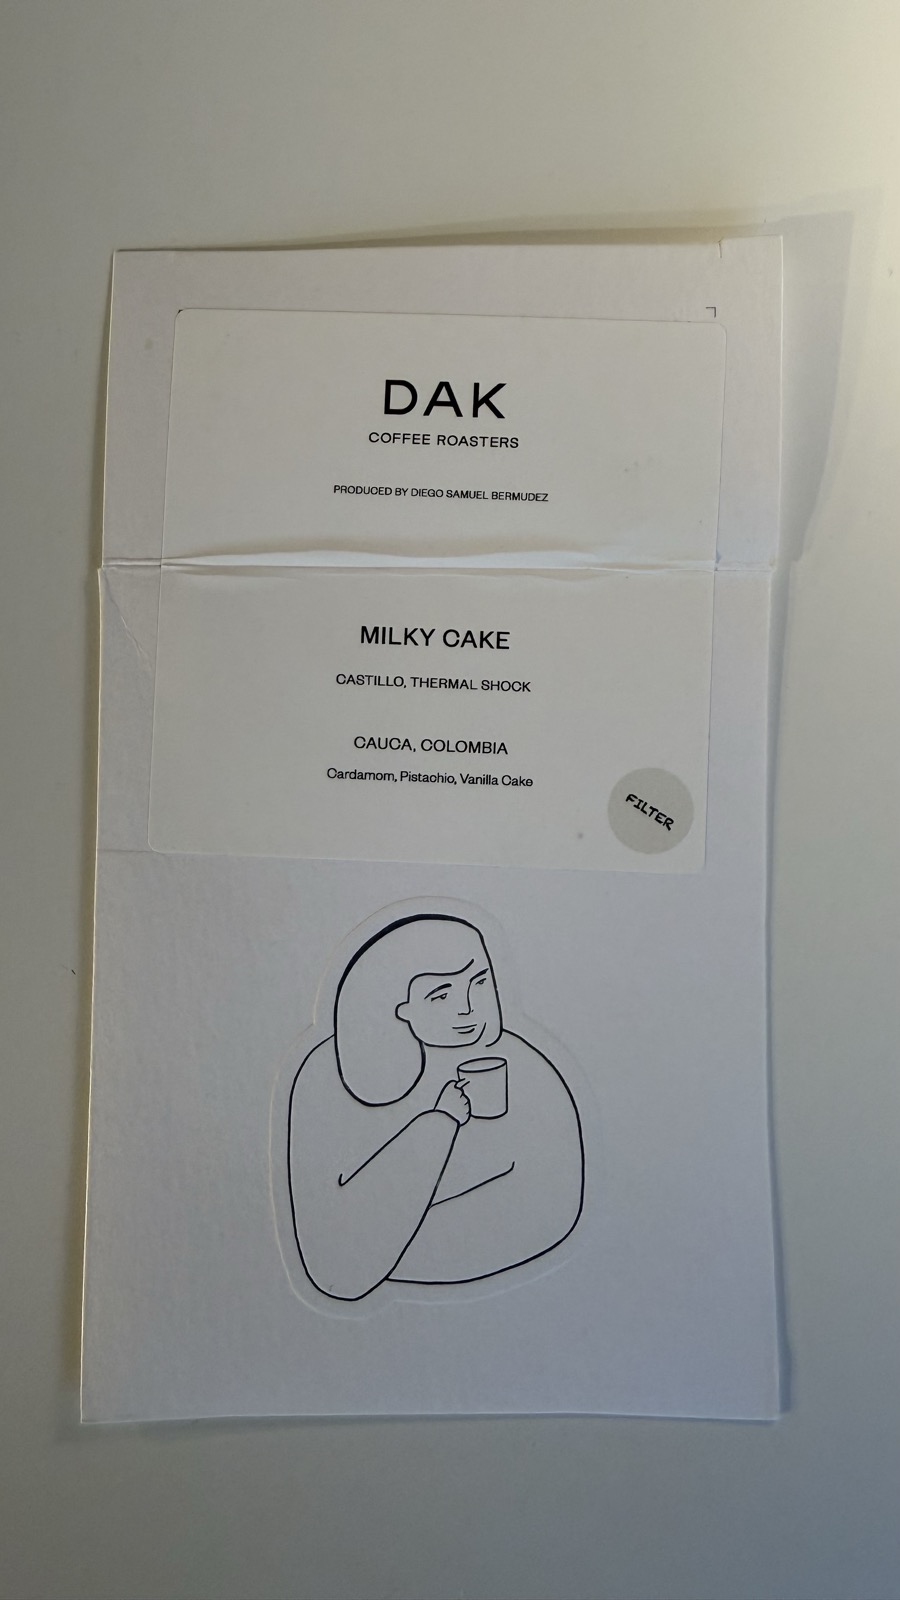
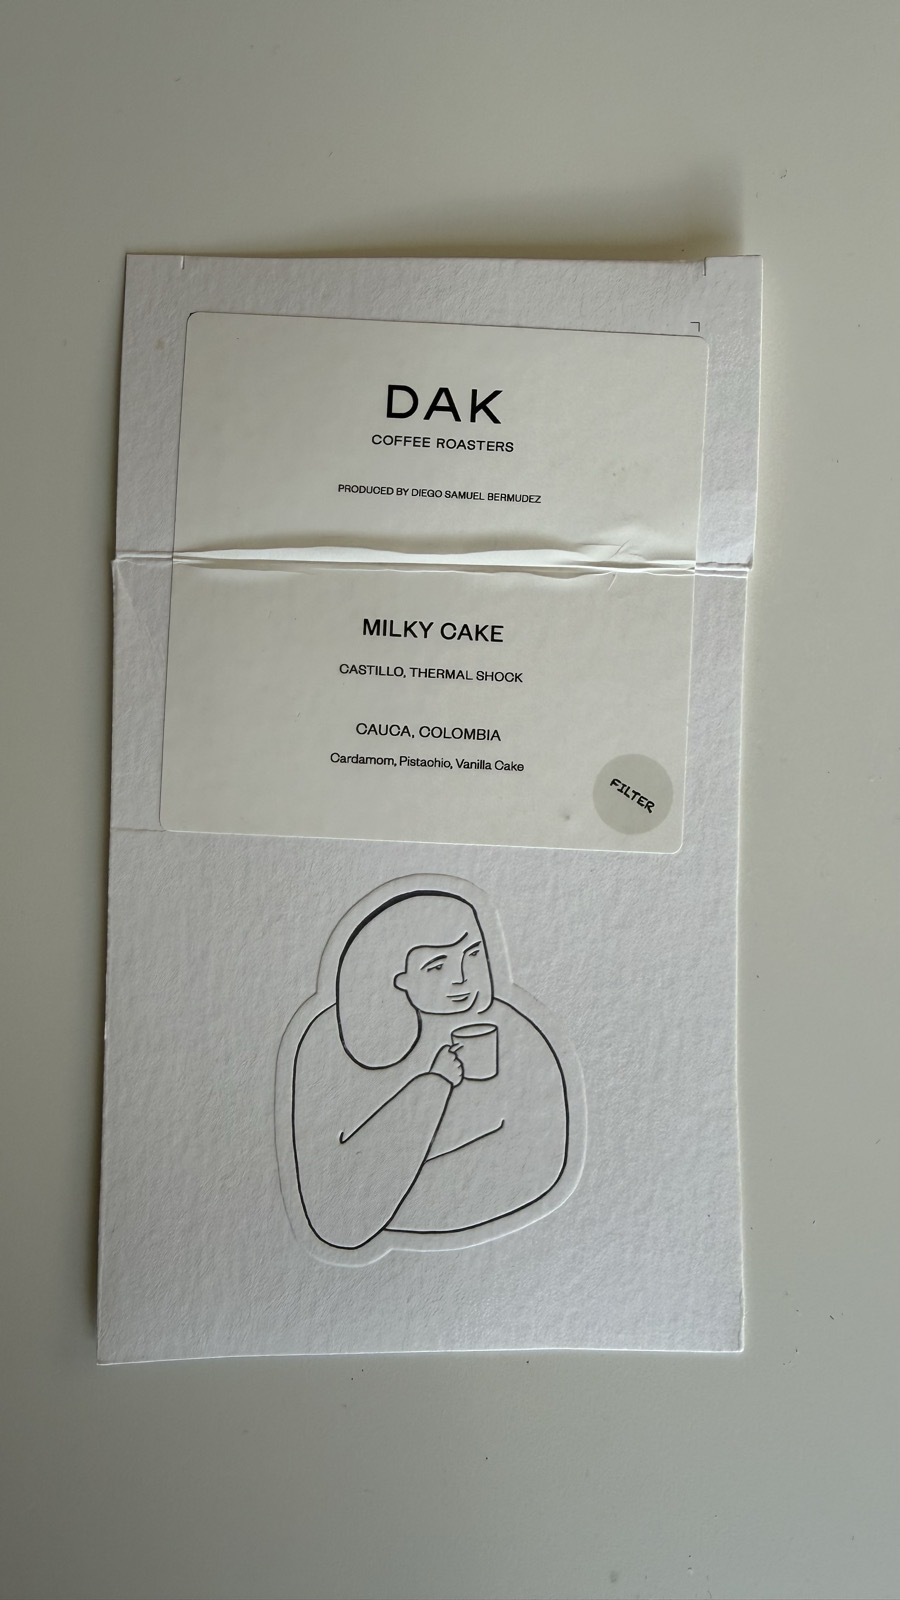
Replace DAK 2024 photos with higher-quality versions
Swap the cover photos for 2024-014 through 021 (the DAK Coffee Roasters
boxes) for better-quality shots. The Alchemist (015) drops its redundant
near-duplicate second photo.

diff --git a/bags/2024/2024-015.md b/bags/2024/2024-015.md
@@ -2,8 +2,6 @@
 id: 2024-015
 date: 2024-01-01
 photo: 2024-015.jpg
-photos:
-  - 2024-015-b.jpg
 roaster: DAK Coffee Roasters
 coffee: The Alchemist
 origin: Nyamasheke, Rwanda — Gasharu Farms
